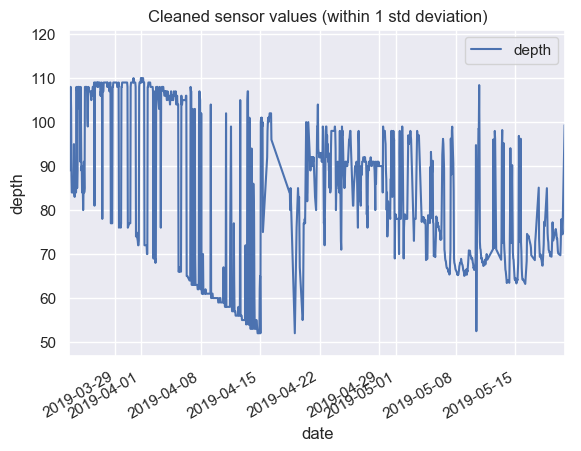
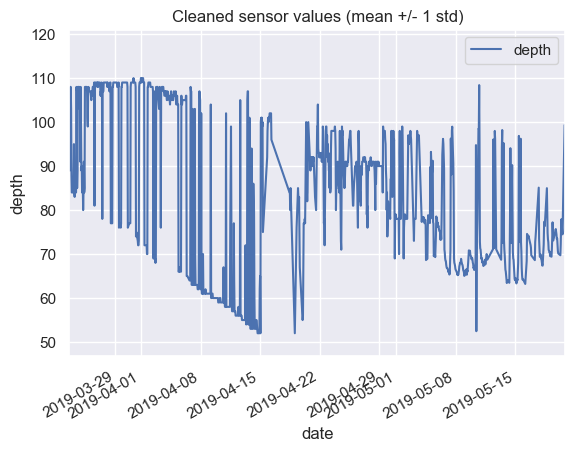
Added rolling std dev cleaning

Changed region(s): [[0.2478, 0.0, 0.8365, 0.0621]]

diff --git a/plot_waterdepth.py b/plot_waterdepth.py
@@ -55,8 +55,8 @@ def build_graphs(data, show_graphs=False):
     import matplotlib.pyplot as plt
     sns.set(style="darkgrid")
 
-    #from pandas.plotting import register_matplotlib_converters
-    #register_matplotlib_converters()
+    # from pandas.plotting import register_matplotlib_converters
+    # register_matplotlib_converters()
 
     # raw data - vanilla matplotlib
     plt.plot(x, y, label="raw")
@@ -79,9 +79,10 @@ def build_graphs(data, show_graphs=False):
     plt.title("Water depth readings")
     plt.legend()
     plt.savefig("graphs/fig_sensor.png", bbox_inches='tight')
-    if show_graphs:
-        plt.show()
-    plt.close()
+
+    # why cannot remove this?
+    #if show_graphs:
+    #    plt.show()
 
     # avg per hour - using pandas DF
     df = pd.DataFrame({"time": x, "depth": y})
@@ -94,9 +95,6 @@ def build_graphs(data, show_graphs=False):
     plt.ylim(max(np.amin(avg_series) - (np.amin(avg_series) * 0.1), 0),
              np.amax(avg_series) + (np.amax(avg_series) * 0.1))
     plt.savefig("graphs/fig_avg_hourly.png", bbox_inches='tight')
-    if show_graphs:
-        plt.show()
-    plt.close()
 
     # avg per day - using pandas DF re-indexing (and pandas plot wrapper)
     df = pd.DataFrame({"time": x, "depth": y})
@@ -110,25 +108,56 @@ def build_graphs(data, show_graphs=False):
     ymin = df["depth"].min()
     plt.ylim(max(0, (ymin - (ymin * 0.1))), ymax + (ymax * 0.1))
     plt.savefig("graphs/fig_avg_daily.png", bbox_inches='tight')
-    if show_graphs:
-        plt.show()
-    plt.close()
 
     # drop values outside 1 std dev - using pandas DF
     df = pd.DataFrame({"time": x, "depth": y})
     df.set_index("time", inplace=True)
-    df = df[df["depth"].between(mean - std, mean + std)]
+    df = drop_1std(df)
     ax = df.plot()
     ax.set_xlabel("date")
     ax.set_ylabel("depth")
-    plt.title("Cleaned sensor values (within 1 std deviation)")
+    plt.title("Cleaned sensor values (mean +/- 1 std)")
     ymax = df["depth"].max()
     ymin = df["depth"].min()
     plt.ylim(max(0, (ymin - (ymin * 0.1))), ymax + (ymax * 0.1))
+
     plt.savefig("graphs/fig_clean_sensor.png", bbox_inches='tight')
+
+    # drop values outside 1 rolling std dev - using pandas DF
+    df = pd.DataFrame({"time": x, "depth": y})
+    df.set_index("time", inplace=True)
+    df = drop_1_rolling_std(df)
+    ax = df.plot()
+    ax.set_xlabel("date")
+    ax.set_ylabel("depth")
+    plt.title("Cleaned sensor values (rolling mean +/- 1 rolling std)")
+    ymax = df["depth"].max()
+    ymin = df["depth"].min()
+    plt.ylim(max(0, (ymin - (ymin * 0.1))), ymax + (ymax * 0.1))
+
+    plt.savefig("graphs/fig_clean_sensor2.png", bbox_inches='tight')
     if show_graphs:
         plt.show()
+
     plt.close()
+
+
+def drop_1std(df):
+    mean = df.mean()["depth"]
+    std = df.std()["depth"]
+    return df[df["depth"].between(mean - std, mean + std)]
+
+
+def drop_1_rolling_std(df):
+    win_size = 50
+    rolling_mean = df.rolling(window=win_size).mean()
+    rolling_std = df.rolling(window=win_size).std()
+
+    #print(rolling_mean)
+    #print(rolling_std)
+
+    return df[
+        df["depth"].between(rolling_mean["depth"] - rolling_std["depth"], rolling_mean["depth"] + rolling_std["depth"])]
 
 
 if __name__ == "__main__":
